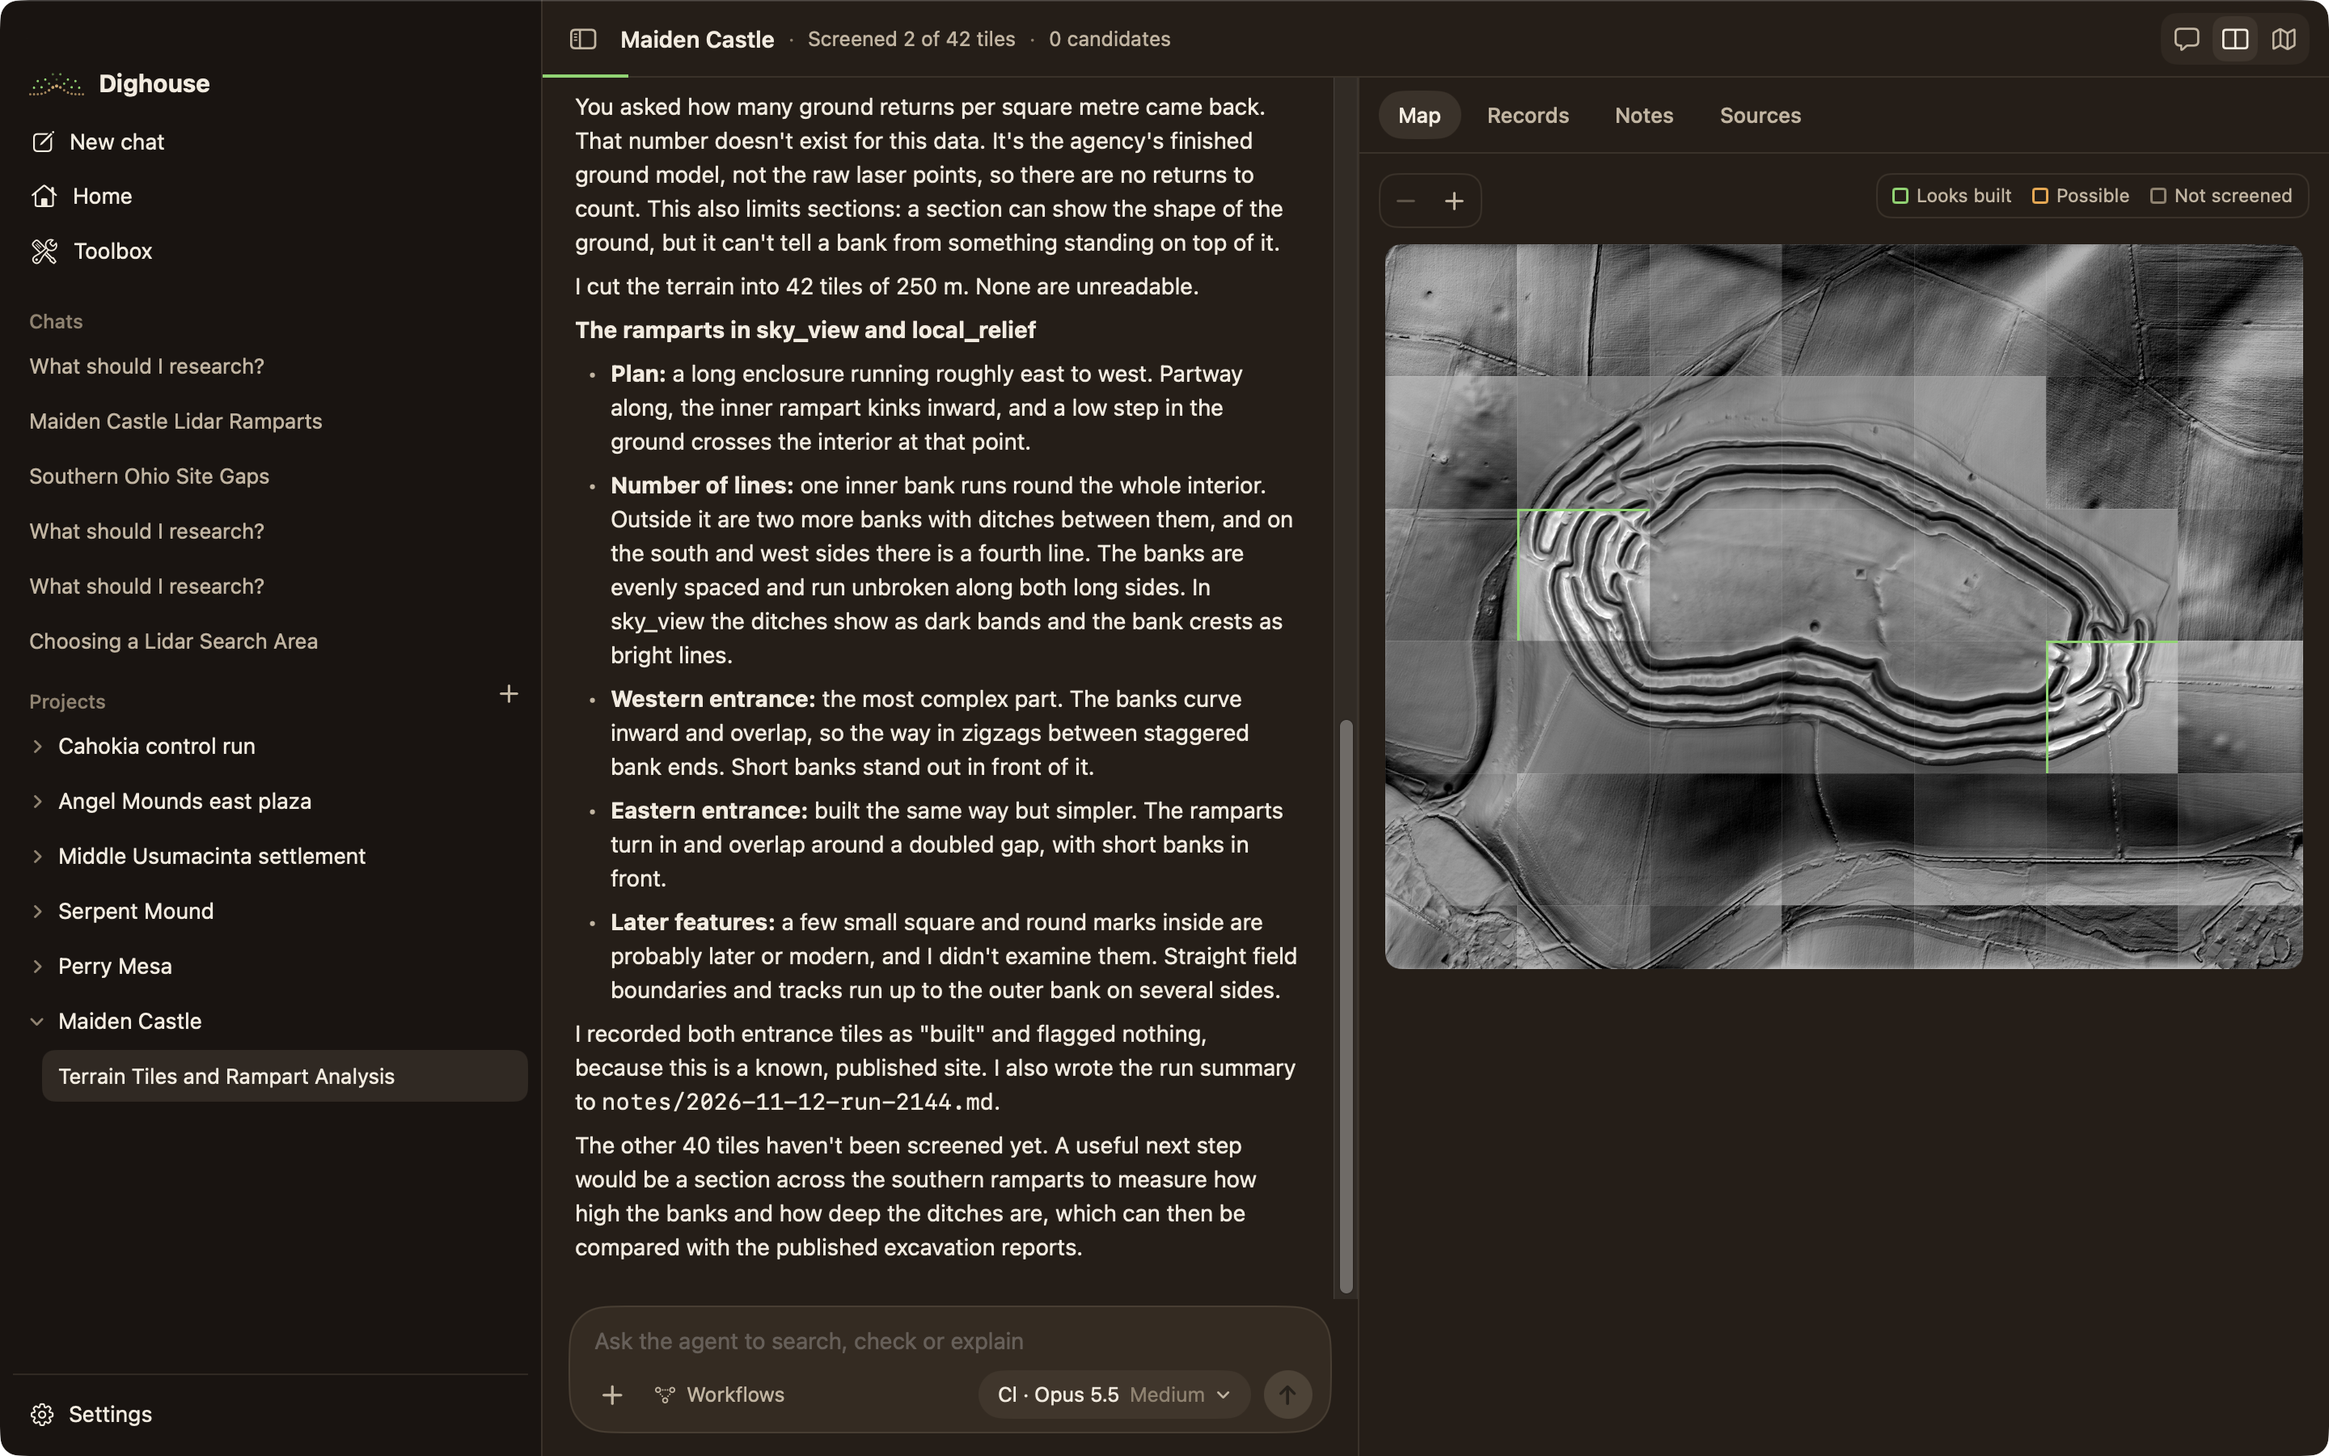
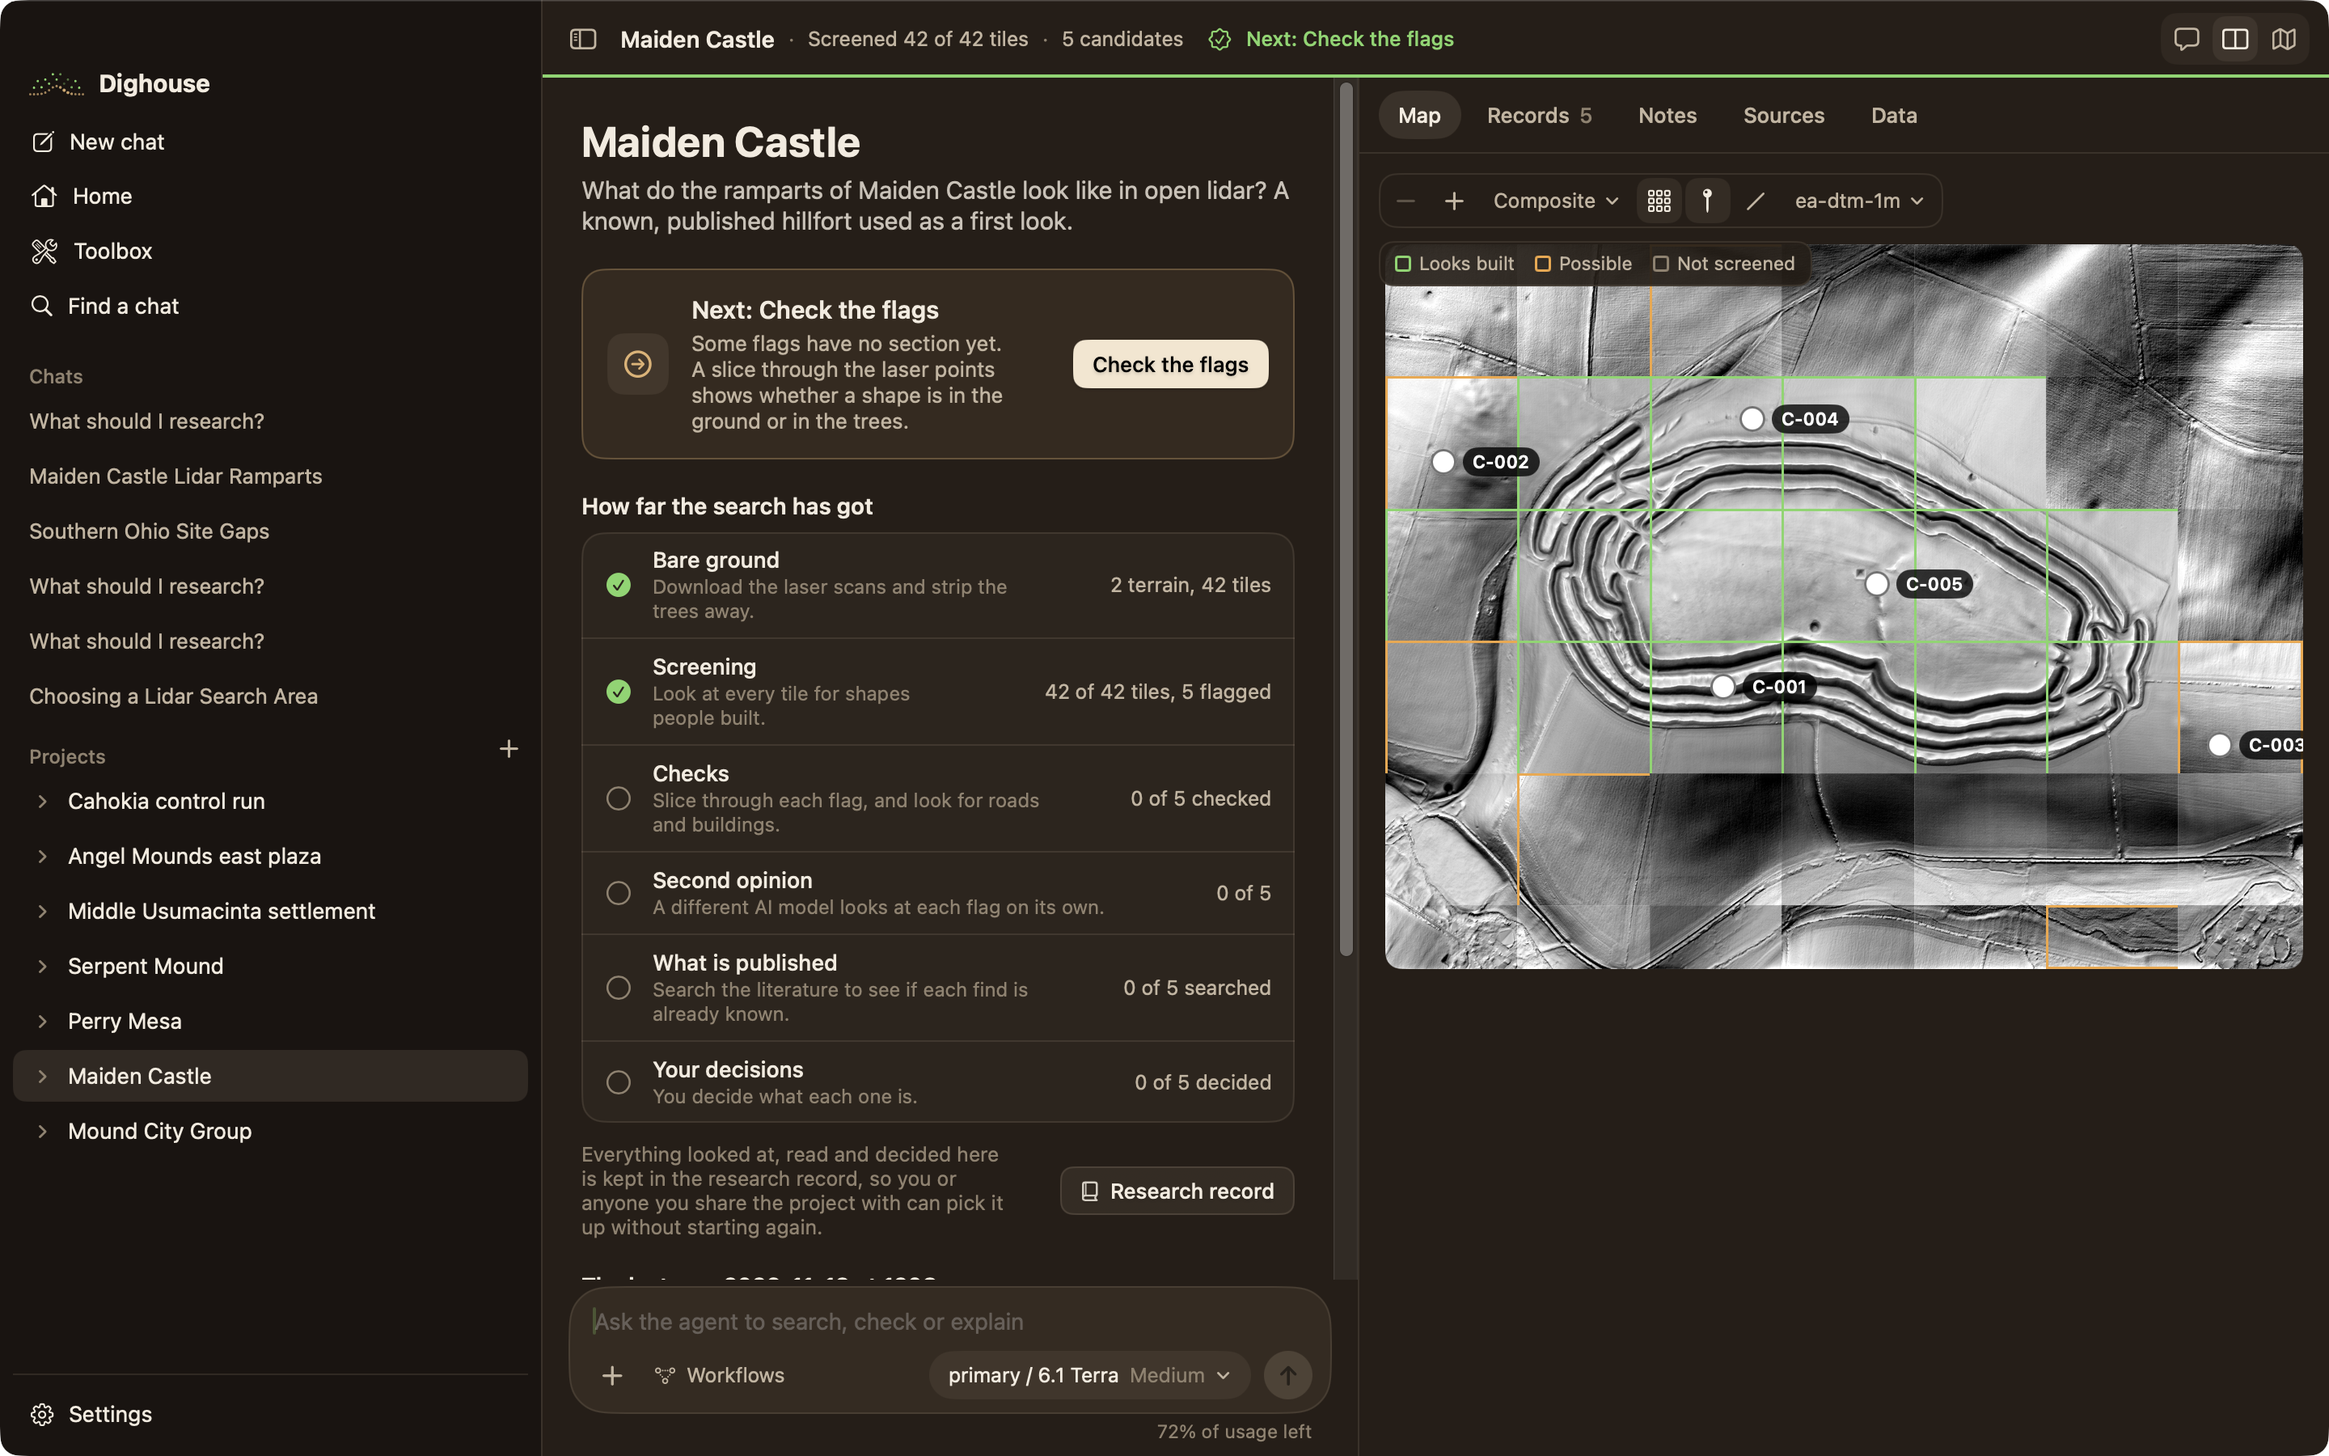
New project and Maiden Castle pictures; research record builds for national ground models; clearer overview run excerpt; a test for the record (#20)

diff --git a/app/Sources/Dighouse/ProjectOverview.swift b/app/Sources/Dighouse/ProjectOverview.swift
@@ -27,8 +27,13 @@ struct ProjectOverview: View {
         guard let newest = files.filter({ $0.contains("-run-") && $0.hasSuffix(".md") }).sorted().last,
               let text = try? String(contentsOfFile: root + "/notes/" + newest, encoding: .utf8) else { return nil }
         let lines = text.split(separator: "\n").map(String.init).filter { !$0.hasPrefix("#") && !$0.trimmingCharacters(in: .whitespaces).isEmpty }
+        // A short excerpt, so Markdown marks are taken out rather than drawn: bold, code and list bullets.
         let body = lines.prefix(4).map { $0.hasPrefix("- ") ? String($0.dropFirst(2)) : $0 }.joined(separator: " ")
-        let date = newest.replacingOccurrences(of: ".md", with: "").replacingOccurrences(of: "-run-", with: " at ")
+            .replacingOccurrences(of: "**", with: "").replacingOccurrences(of: "\u{60}", with: "")
+        // "2026-11-13-run-1430.md" reads "2026-11-13 at 14:30".
+        let parts = newest.replacingOccurrences(of: ".md", with: "").components(separatedBy: "-run-")
+        let time = parts.count > 1 && parts[1].count == 4 ? String(parts[1].prefix(2)) + ":" + String(parts[1].suffix(2)) : (parts.count > 1 ? parts[1] : "")
+        let date = parts[0] + (time.isEmpty ? "" : " at " + time)
         return (date, String(body.prefix(520)) + (body.count > 520 ? "…" : ""))
     }
 

diff --git a/src/dighouse/record.py b/src/dighouse/record.py
@@ -38,7 +38,10 @@ def _upgrade(p: Project) -> None:
     if not index.exists():
         index.parent.mkdir(parents=True, exist_ok=True)
         runs = sorted(p.path("notes").glob("*-run-*.md"), reverse=True)
-        index.write_text(INDEX_MD + "".join(f"- [{f.stem.replace('-run-', ' ')}]({f.name})\n" for f in runs))
+        def when(stem: str) -> str:
+            day, _, hm = stem.partition("-run-")
+            return f"{day} {hm[:2]}:{hm[2:]}" if len(hm) == 4 else stem
+        index.write_text(INDEX_MD + "".join(f"- [{when(f.stem)}]({f.name})\n" for f in runs))
 
 
 def _searches(p: Project) -> list[tuple[str, str, str]]:
@@ -59,6 +62,12 @@ def question(p: Project) -> str:
         line = next((l.strip() for l in after[1].splitlines() if l.strip()), "") if len(after) > 1 else ""
         q = "" if line.startswith("#") else line
     return q
+
+
+def density(t: dict) -> str:
+    """Ground returns per square metre, or why there are none: a national ground model is built already, with no points."""
+    d = t.get("ground_points_per_m2")
+    return f"{d:.1f}" if isinstance(d, (int, float)) else "none (a ready-made ground model)"
 
 
 def still_to_do(p: Project) -> list[str]:
@@ -87,6 +96,10 @@ def still_to_do(p: Project) -> list[str]:
         out.append(f"Decide {', '.join(m['id'] for m in open_)}: a person makes each decision.")
     if not out and records:
         out.append("Every candidate here is decided. Widen the area, try another survey or view, or write up what was found.")
+    elif not out and tiles:
+        out.append("Every tile is screened and nothing was flagged. Screen again in another view (sky view shows low banks best), "
+                   "widen the area, or try another survey. Search the literature for the area too: it is worth knowing what is "
+                   "published here even when the lidar shows nothing.")
     return out
 
 
@@ -126,7 +139,7 @@ def document(p: Project, commit_it: bool = True) -> dict:
          f"Updated {now:%Y-%m-%d %H:%M}. Started {info.get('created', 'unknown')}.", ""]
     if question_text:
         L += ["## The question", "", question_text, ""]
-    area = sum(t.get("area_km2", 0) for t in terrains.values())
+    area = sum(t.get("area_km2") or 0 for t in terrains.values())
     L += ["## Where things stand", "",
           f"- **Terrain:** {len(terrains)} survey download{'s' if len(terrains) != 1 else ''}, {area:.2f} sq km.",
           f"- **Ground looked at:** {len(screened)} of {len(tiles)} tiles screened"
@@ -141,8 +154,11 @@ def document(p: Project, commit_it: bool = True) -> dict:
     if terrains:
         L += ["| Survey | From | Flown | Area | Ground returns per sq m | Cell |", "|---|---|---|---|---|---|"]
         for t in sorted(terrains.values(), key=lambda t: t.get("dataset", "")):
-            L.append(f"| {t.get('dataset', '')} | {t.get('source') or t.get('dataset', '').split(':')[0]} | {t.get('collected') or 'not stated'} "
-                     f"| {t.get('area_km2', 0):.2f} sq km | {t.get('ground_points_per_m2', 0):.1f} | {t.get('res', 0.5)} m |")
+            publisher = {"usgs": "USGS 3DEP", "ot": "OpenTopography", "uk": "Environment Agency (England)", "nl": "AHN (Netherlands)",
+                         "fr": "IGN (France)", "own": "Imported by a person"}
+            prefix = t.get("dataset", "").split(":")[0]
+            L.append(f"| {t.get('dataset', '')} | {t.get('source') or publisher.get(prefix, prefix)} | {t.get('collected') or 'not stated'} "
+                     f"| {(t.get('area_km2') or 0):.2f} sq km | {density(t)} | {t.get('res') or 0.5} m |")
     else:
         L.append("No terrain yet.")
     L.append("")

diff --git a/tests/test_offline.py b/tests/test_offline.py
@@ -133,3 +133,25 @@ def test_export_finds_writes_geojson_under_private(tmp_path):
     data = json.loads(Path(got["file"]).read_text())
     assert got["candidates"] == 1 and "/private/exports/" in got["file"]
     assert data["features"][0]["geometry"]["coordinates"] == [0.004, 0.006]
+
+
+def test_research_record_covers_what_was_done(tmp_path):
+    """RESEARCH.md lists the data, tiles, sources and what is left, copes with a ready-made ground model, and holds no coordinates."""
+    from dighouse import ledger, record
+
+    p = Project.create(tmp_path / "rec", "Record check", "Is the bank built?", [0.0, 51.0, 0.01, 51.01])
+    p.save("terrains", {"t1": {"dataset": "uk:ea-dtm-1m", "area_km2": 1.0, "ground_points_per_m2": None, "res": 1.0}})
+    p.save("tiles", {"t1-r000c000": {"terrain": "t1", "window": [0, 0, 500, 500], "status": "screened", "verdict": "nothing",
+                                     "note": "Plough lines only, near 51.00523", "model": "test-model"},
+                     "t1-r000c001": {"terrain": "t1", "window": [0, 500, 500, 500], "status": "unscreened"}})
+    cid = ledger.create(p, "Low bank", "t1-r000c000", (0.005, 51.005), "A straight low bank", "test-model")["id"]
+    ledger.add_source(p, cid, "A county survey", "could_not_open", "Behind a paywall; see doi 10.2307/503404")
+    out = record.document(p)
+
+    text = p.path("RESEARCH.md").read_text()
+    assert "Environment Agency (England)" in text and "ready-made ground model" in text
+    assert "1 nothing" in text and "Plough lines only" in text
+    assert "51.00523" not in text and "10.2307/503404" in text
+    assert any("Screen 1 tile" in t for t in out["still_to_do"])
+    assert any("could not be opened" in t for t in out["still_to_do"])
+    assert "How this project keeps its record" in p.path("METHODOLOGY.md").read_text()

diff --git a/docs/HANDOFF.md b/docs/HANDOFF.md
@@ -28,7 +28,7 @@ Read the Logs in [GOAL_LOOP.md](GOAL_LOOP.md) and [NEXT_LOOP.md](NEXT_LOOP.md) f
 - **App** (`app/Sources/Dighouse`, SwiftUI, macOS 14): one page at a time (Home, chat, New project, Toolbox, Settings). A project puts a workspace beside the chat with Map, Records, Notes and Sources tabs. Three looks; Earth is the default. The mark beside "Dighouse" animates.
 - **Tools** (`src/dighouse`, Python, MCP): 32 tools. `discover.py` chooses where to look, `sources.py` and `terrain.py` fetch and build terrain (USGS, OpenTopography, and national ground models for England, the Netherlands and France), `tiles.py` and `section.py` screen and cut, `checks.py` reads maps and literature, `ledger.py` keeps records. The agent's instructions are `skills/dighouse/SKILL.md`.
 - **Engine**: `codex app-server` (0.146.0) as a child process, spoken to in JSON lines by `Engine.swift`. Dighouse opts into the experimental API, because newer chats are stored page by page and only `thread/turns/list` returns them.
-- **Tests**: 4 offline, 8 live (`uv run pytest`, `uv run pytest -m live`).
+- **Tests**: 5 offline, 8 live (`uv run pytest`, `uv run pytest -m live`).
 - **README** has screenshots in `docs/images`, taken from the running app at 1440 × 900 with real projects. Retake them when the app changes in a way they show.
 
 ## What the third loop added (U1 to U7)
@@ -44,7 +44,7 @@ Read the Logs in [GOAL_LOOP.md](GOAL_LOOP.md) and [NEXT_LOOP.md](NEXT_LOOP.md) f
 
 - **U8:** a map with views (Composite, Hillshade, Local relief, Sky view, through the `render_tiles` tool), toggles, zoom, click and double-click, and drawing a line to cut a section.
 - **Chris's review (F1 to F11):** the review comes prepared (the `suggest_decision` tool and "Prepare my review"), one button style, /review, a bigger and animated Home, How it runs rewritten around model, engine and tools, Settings › Tools, Open data grouped by region, a project overview, readable section labels, a text size setting, Models warnings and Test both, and each project kept as its own git repository with METHODOLOGY.md and a Notes tab in three parts.
-- **Done on 2026-11-14:** F2, F5, F6, U10 (⌘K), U11 (failures say what to do), U12 (every size and look, and the README pictures and docs), the model button opening the model list first, and P1 (every project keeps a research record). **Still open:** retake the New project and Maiden Castle pictures, and check pinch zoom and two-finger panning with a real trackpad. The Log in USABILITY_LOOP.md has the details and the test leftovers.
+- **Done on 2026-11-14:** F2, F5, F6, U10 (⌘K), U11 (failures say what to do), U12 (every size and look, and the README pictures and docs), the model button opening the model list first, and P1 (every project keeps a research record). **Still open:** check pinch zoom and two-finger panning with a real trackpad. The Log in USABILITY_LOOP.md has the details and the test leftovers.
 
 ## How a project documents itself (P1, Chris's priority)
 

diff --git a/docs/USABILITY_LOOP.md b/docs/USABILITY_LOOP.md
@@ -410,3 +410,13 @@ Chris asked for this to come first. It builds on F10, which gave projects a meth
 - **Kept the old pictures** for New project and Maiden Castle. While I was capturing, the app twice switched to another chat on its own, so Chris was probably using it, and I stopped driving it.
 - **README** now covers slash commands, @ mentions, ⌘K, failures with Try again, the project overview, the review, the research record, text size and the tools in Settings. The tool count is 32.
 - **Still open:** retake New project and Maiden Castle, and check pinch zoom and two-finger panning with a real trackpad.
+
+
+### 2026-11-14, last pictures and polish
+
+- **README pictures:** retook New project (Mound City Group, with its search area and the USGS lidar found) and Maiden Castle (overview beside the map of the ramparts and five candidates). Earlier captures had come out stale because the window server held an old image of a window in the background, so the capture script now brings Dighouse to the front first. The project-name click that seemed to switch chats on its own was my coordinate clicks landing on another row, not a bug in the app.
+- **The research record failed for national ground models.** They store no ground density, so building RESEARCH.md for Maiden Castle stopped with an error, and the app swallowed it silently. The record now says "none (a ready-made ground model)" there, and the From column names the publisher (USGS 3DEP, Environment Agency (England) and so on). Checked by building the record for copies of all 11 projects on this Mac; each one builds.
+- **Still to do had nothing to say** for a project where every tile was screened and nothing flagged (Middle Usumacinta). It now suggests another view, a wider area or another survey, and a literature search of the area.
+- **Overview:** the last run's time reads "12:08" (it read "1208"), and its excerpt no longer shows Markdown marks such as **Done.**
+- **A test** of the research record (5 offline tests now): tiles, sources, a ready-made ground model, what is left, and that a coordinate is removed while a DOI is kept.
+- **Test leftovers:** archived the five "Environment Agency terrain fetch" chats in Maiden Castle.

diff --git a/README.md b/README.md
@@ -74,7 +74,7 @@ A dig house is the building where an excavation team lives, works and keeps its 
     <td width="50%"><img src="docs/images/new-project.png" alt="New project at Mound City Group: name, question, a search area drawn on the map, and the open lidar that covers it"><br><sub><b>New project.</b> Place the search area on the map and see which open lidar covers it before you start.</sub></td>
   </tr>
   <tr>
-    <td width="50%"><img src="docs/images/maiden-castle.png" alt="Maiden Castle in England from Environment Agency lidar: the agent describes the ramparts and entrances beside the tiled map"><br><sub><b>A project.</b> Maiden Castle from the Environment Agency's 1 m ground model. The agent reads the ramparts and both entrances from the views.</sub></td>
+    <td width="50%"><img src="docs/images/maiden-castle.png" alt="Maiden Castle in England from Environment Agency lidar: the project overview with the next step beside the tiled map of the ramparts and five flagged candidates"><br><sub><b>A project.</b> Maiden Castle from the Environment Agency's 1 m ground model: 42 tiles screened, five candidates flagged on the ramparts and entrances, and the next step named.</sub></td>
     <td width="50%"><img src="docs/images/record.png" alt="A candidate record at Angel Mounds with its relief, its section, and checks for ground returns, a second look and modern features"><br><sub><b>Records.</b> Each candidate with its relief, its section and every check. The decision is yours.</sub></td>
   </tr>
   <tr>
@@ -116,7 +116,7 @@ Then start a chat in an empty folder and ask the agent to follow [skills/dighous
 ### Tests
 
 ~~~sh
-uv run pytest            # offline, on a synthetic survey (4 tests)
+uv run pytest            # offline, on a synthetic survey (5 tests)
 uv run pytest -m live    # the same chain against the real data services (8 tests)
 ~~~
 
